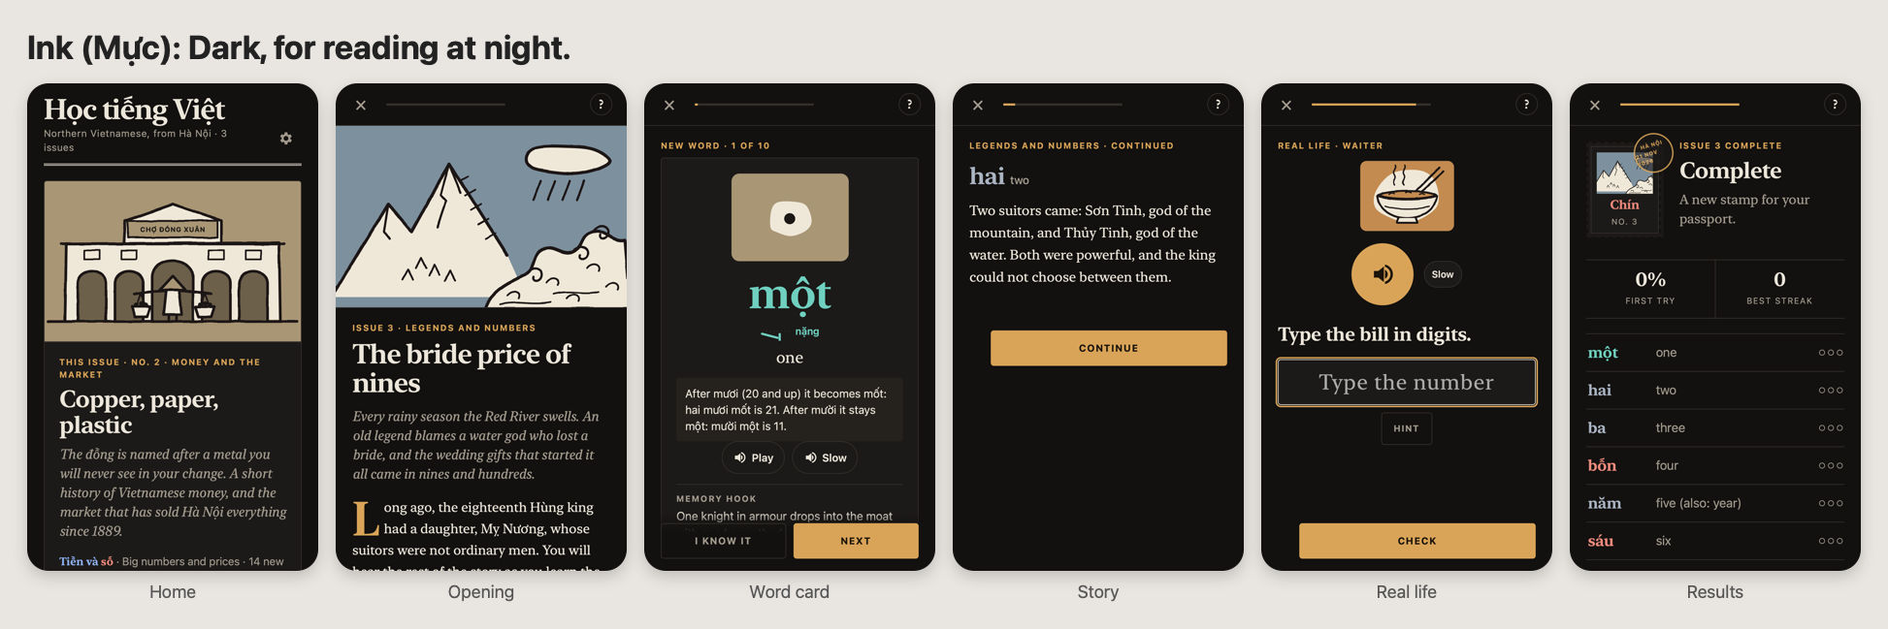
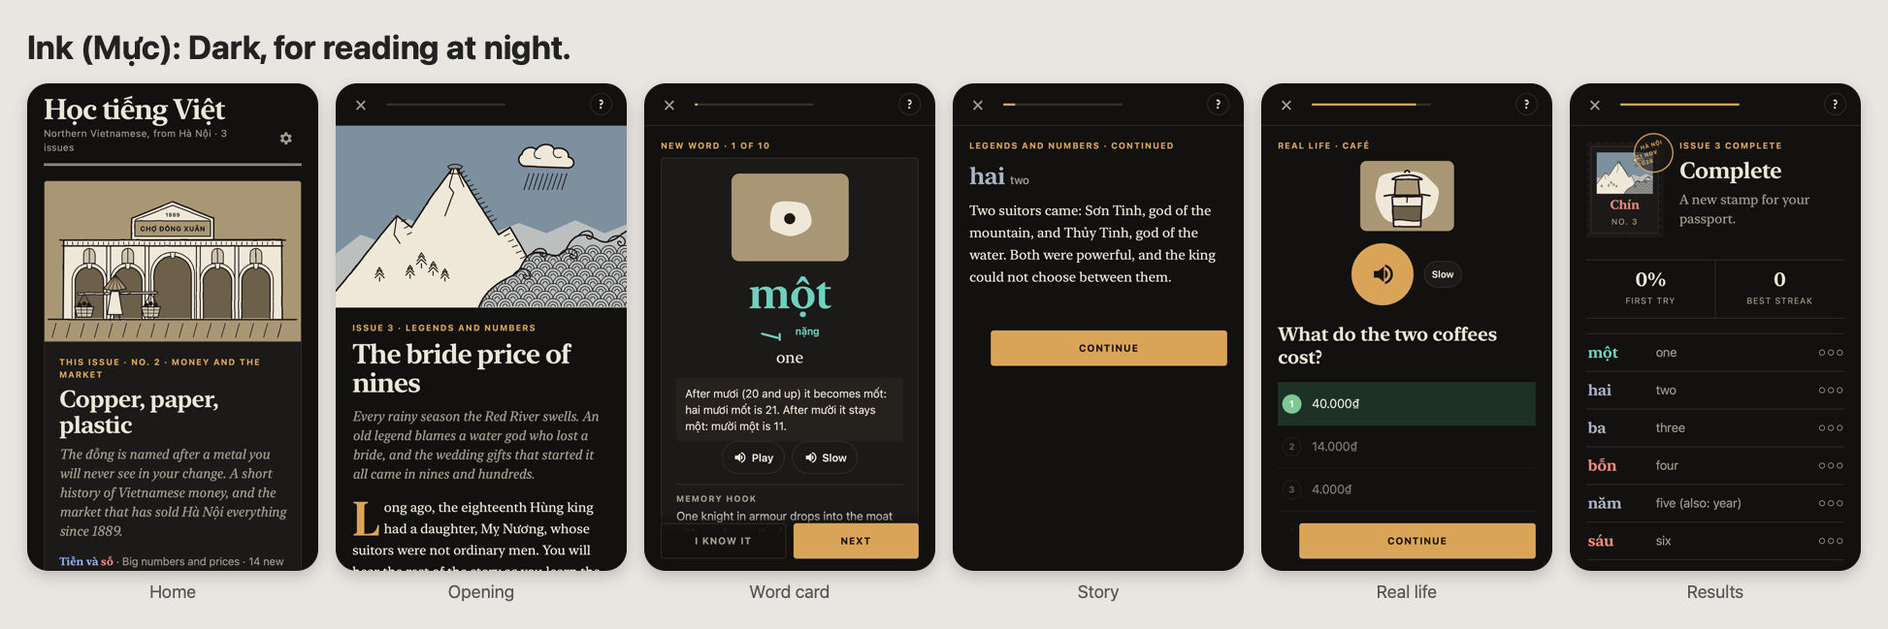
Refine the covers: finer lines, layered mountains with hatching, a detailed phở bowl and Đồng Xuân facade, woodblock-style waves; finer word-picture lines; picture_sheet --covers

diff --git a/web/js/pictures.js b/web/js/pictures.js
@@ -52,7 +52,7 @@ function tremor(id, w, h, freq, scale) {
 function card(ink, { tone = 'warm', paper, seed = 1, crisp = '' } = {}) {
   const id = `vw-ink-${++uid}`;
   const cut = paper === false ? '' : `<path class="k-carrier" d="${paper || blob(60, 46, 44, 33, seed)}"/>`;
-  return `<svg class="pic ink-pic k-${tone}" viewBox="0 0 ${W} ${H}" aria-hidden="true"><defs>${tremor(id, W, H, 0.09, 1.7)}</defs><rect class="k-field" x="0.5" y="0.5" width="119" height="89" rx="8"/>${cut}<g class="k-ink" stroke-width="2.5" filter="url(#${id})">${ink}</g>${crisp}</svg>`;
+  return `<svg class="pic ink-pic k-${tone}" viewBox="0 0 ${W} ${H}" aria-hidden="true"><defs>${tremor(id, W, H, 0.1, 1.25)}</defs><rect class="k-field" x="0.5" y="0.5" width="119" height="89" rx="8"/>${cut}<g class="k-ink" stroke-width="2.1" filter="url(#${id})">${ink}</g>${crisp}</svg>`;
 }
 
 const steam = (xs, y, w = 1.8) => `<g stroke-width="${w}">${xs.map((x) => `<path d="M${x} ${y} c-4 -5 3 -8 0 -13 c-3 -5 3 -8 1 -12"/>`).join('')}</g>`;
@@ -320,59 +320,169 @@ function halfCircle() {
   return card('<circle class="k-paper" cx="60" cy="45" r="30"/><path class="k-tint" d="M60 15 A30 30 0 0 0 60 75 Z"/><path stroke-width="1.8" stroke-dasharray="4 5" d="M60 8 V82"/>', { tone: 'warm', seed: 131 });
 }
 
-// Covers, 400 by 250: one subject each, on a paper cut-out over a full-bleed field.
-const SCENES = {
-  phoStall: {
+// Covers, 400 by 250, one subject each. A scene has up to five layers: back (flat shapes on the field), paper (the
+// cut-outs), under (flat shading on the paper), ink (lines, with the pen tremor) and crisp (text and dots).
+
+const P = (pts) => pts.map(([x, y], i) => `${i ? 'L' : 'M'}${n1(x)} ${n1(y)}`).join(' ');
+
+const curve = ([a, b, c, d]) => `M${a.join(' ')} C${b.join(' ')} ${c.join(' ')} ${d.join(' ')}`;
+
+function cubicAt(p0, p1, p2, p3, t) {
+  const u = 1 - t;
+  return [0, 1].map((k) => u * u * u * p0[k] + 3 * u * u * t * p1[k] + 3 * u * t * t * p2[k] + t * t * t * p3[k]);
+}
+
+// A chopstick or a pole: a long narrow shape, wider at the far end.
+function stick(x1, y1, x2, y2, w1, w2) {
+  const len = Math.hypot(x2 - x1, y2 - y1) || 1;
+  const nx = -(y2 - y1) / len;
+  const ny = (x2 - x1) / len;
+  return `${P([[x1 + (nx * w1) / 2, y1 + (ny * w1) / 2], [x2 + (nx * w2) / 2, y2 + (ny * w2) / 2], [x2 - (nx * w2) / 2, y2 - (ny * w2) / 2], [x1 - (nx * w1) / 2, y1 - (ny * w1) / 2]])} Z`;
+}
+
+// A small pine: a trunk and three tiers.
+function pine(x, y, s = 1) {
+  const t = (w, a, b) => `M${n1(x - w * s)} ${n1(y - a * s)} L${n1(x)} ${n1(y - b * s)} L${n1(x + w * s)} ${n1(y - a * s)}`;
+  return `<path stroke-width="1.4" d="M${x} ${y} v${n1(-6 * s)} ${t(7, 5, 12)} ${t(6, 10, 17)} ${t(4, 15, 21)}"/>`;
+}
+
+// Short parallel strokes along a line, for shading.
+function hatch(x1, y1, x2, y2, n, dx, dy, w = 1.2) {
+  let d = '';
+  for (let i = 0; i < n; i++) {
+    const t = n === 1 ? 0 : i / (n - 1);
+    d += `M${n1(x1 + (x2 - x1) * t)} ${n1(y1 + (y2 - y1) * t)} l${dx} ${dy} `;
+  }
+  return `<path stroke-width="${w}" d="${d.trim()}"/>`;
+}
+
+// Rows of nested arcs: the wave pattern of Vietnamese woodblock prints.
+function scales(x0, y0, x1, y1, r) {
+  let d = '';
+  let row = 0;
+  for (let y = y0; y <= y1; y += r * 0.95, row++) {
+    for (let x = x0 + (row % 2 ? r : 0); x <= x1 + r; x += r * 2) {
+      for (const k of [1, 0.62, 0.28]) d += `M${n1(x - r * k)} ${n1(y)} A${n1(r * k)} ${n1(r * k)} 0 0 1 ${n1(x + r * k)} ${n1(y)} `;
+    }
+  }
+  return d.trim();
+}
+
+function phoScene() {
+  const band = (o) => [[99 + o, 147 + o * 3], [130, 161 + o * 3], [262, 161 + o * 3], [293 - o, 147 + o * 3]];
+  const mid = band(2);
+  let curls = '';
+  for (let i = 0; i < 13; i++) {
+    const [x, y] = cubicAt(...mid, 0.06 + (i * 0.88) / 12);
+    curls += `M${n1(x - 4)} ${n1(y + 3)} c0 -5 7 -6 8 -1 c0 3 -4 3 -4 1 `;
+  }
+  const petals = [[150, 191], [165, 195], [180, 197], [196, 198], [212, 197], [227, 195], [242, 191]].map(([x, y]) => `M${x - 6} ${y} q6 -13 12 0`).join(' ');
+  const steam = [[136, 116, 80], [160, 113, 92], [184, 116, 70]].map(([x, y, h]) => `M${x} ${y} c-10 ${n1(-h * 0.18)} 8 ${n1(-h * 0.32)} 0 ${n1(-h * 0.5)} c-8 ${n1(-h * 0.18)} 9 ${n1(-h * 0.32)} 2 ${n1(-h * 0.5)}`).join(' ');
+  const noodles = [
+    'M219 92 C214 102 222 109 217 118 C214 124 216 129 214 133',
+    'M223 93 C219 103 229 110 224 120 C221 126 224 130 222 134',
+    'M227 95 C224 105 234 112 229 122 C226 128 230 131 228 135',
+    'M231 96 C229 106 239 113 234 123 C232 128 235 131 234 135',
+    'M235 97 C235 107 244 114 239 124 C237 129 240 132 239 135',
+  ].join(' ');
+  const rings = [[176, 127], [190, 135], [264, 131], [142, 125], [230, 138], [256, 124], [118, 136]].map(([x, y]) => `<circle class="k-paper" stroke-width="1.2" cx="${x}" cy="${y}" r="2.6"/>`).join('');
+  const leaf = (x, y, a = 0) => `<g transform="rotate(${a} ${x} ${y})"><path class="k-paper" stroke-width="1.2" d="M${x} ${y} q5 -7 11 -3 q-5 6 -11 3 Z M${x} ${y} q-6 -6 -10 -1 q6 4 10 1 Z"/><path stroke-width="0.9" d="M${x} ${y} l9 -3 M${x} ${y} l-8 -2"/></g>`;
+  return {
     tone: 'warm',
-    paper: blob(205, 132, 160, 100, 11, 11, 0.07),
-    ink: `<g stroke-width="3">${[128, 162, 196].map((x, i) => `<path d="M${x} ${110 - i * 3} c-9 -12 6 -20 0 -32 c-6 -12 7 -20 2 -30"/>`).join('')}</g>
-      <path d="M236 92 L352 14"/><path d="M248 98 L362 26"/>
-      <g stroke-width="3"><path d="M238 94 C230 108 246 116 236 130 C232 136 236 140 234 146"/><path d="M244 97 C238 111 254 119 244 133 C240 139 244 143 242 149"/><path d="M250 99 C246 113 262 121 252 135 C248 141 252 145 250 151"/></g>
-      <path class="k-tint" d="M88 140 C130 122 270 122 312 140 C270 158 130 158 88 140 Z"/>
-      <path class="k-shade" stroke-width="3" d="M262 139 C270 131 290 131 296 139 C288 145 270 146 262 139 Z"/>
-      <path class="k-shade" stroke-width="3" d="M112 140 C120 133 138 132 146 139 C138 145 120 146 112 140 Z"/>
-      <g stroke-width="3"><path d="M160 136 q8 -7 17 -2"/><path d="M188 143 q8 -6 16 -1"/><path d="M212 132 q7 -6 15 -1"/></g>
-      <path class="k-paper" d="M86 141 C90 186 140 214 200 214 C260 214 310 186 314 141 C270 160 130 160 86 141 Z"/>
-      <path stroke-width="3" d="M106 168 C150 182 250 182 294 168"/>
-      <path stroke-width="2.6" d="M134 190 q7 7 14 0 q7 -7 14 0 q7 7 14 0 q7 -7 14 0 q7 7 14 0 q7 -7 14 0 q7 7 14 0 q7 -7 14 0 q7 7 14 0"/>
-      <path class="k-paper" d="M168 213 L162 230 H238 L232 213"/>`,
-  },
-  market: {
+    paper: blob(200, 126, 166, 104, 11, 11, 0.06),
+    under: '<ellipse class="k-mid" cx="198" cy="219" rx="92" ry="6.5"/>',
+    ink: `<path class="k-paper" d="M166 204 L161 217 C177 220 215 220 231 217 L226 204"/>
+      <path class="k-paper" d="M90 133 C94 180 140 205 196 205 C252 205 298 180 302 133 Z"/>
+      <path stroke-width="1.5" d="${curve(band(0))}"/>
+      <path stroke-width="1.5" d="${curve(band(4))}"/>
+      <path stroke-width="1.3" d="${curls.trim()}"/>
+      <path stroke-width="1.3" d="${petals}"/>
+      <ellipse class="k-paper" cx="196" cy="132" rx="106" ry="16"/>
+      <ellipse class="k-tint" stroke-width="1.5" cx="196" cy="132" rx="99" ry="12.5"/>
+      <path class="k-mid" stroke-width="1.4" d="M120 131 C126 124 150 122 160 128 C152 135 130 137 120 131 Z M206 126 C214 119 238 119 246 125 C238 131 216 133 206 126 Z M150 138 C158 133 178 133 186 138 C178 143 158 143 150 138 Z"/>
+      <path stroke-width="1.1" d="M127 130 q10 -4 23 -2 M213 125 q10 -4 23 -2 M157 138 q9 -3 21 -1"/>
+      ${rings}${leaf(198, 128, -8)}${leaf(276, 133, 10)}${leaf(140, 135, 4)}
+      <path stroke-width="1.3" d="M166 137 c10 -4 20 2 30 -2 M200 141 c8 -3 16 1 24 -1"/>
+      <path class="k-pale" stroke-width="1.6" d="M290 131 C294 117 311 113 320 123 C310 125 298 128 290 131 Z"/>
+      <path stroke-width="1.1" d="M295 128 L306 118 M301 127 L313 119"/>
+      <path class="k-paper" stroke-width="1.6" d="${stick(126, 127, 92, 98, 5, 8)}"/>
+      <path class="k-paper" stroke-width="1.6" d="${stick(222, 91, 322, 14, 2.4, 5.2)}"/>
+      <path class="k-paper" stroke-width="1.6" d="${stick(233, 95, 334, 22, 2.4, 5.2)}"/>
+      <path stroke-width="1.4" d="${noodles}"/>
+      <path stroke-width="1.4" d="${steam}"/>`,
+  };
+}
+
+function marketScene() {
+  const bays = [[70, 44], [130, 44], [200, 58], [270, 44], [330, 44]];
+  const arch = ([cx, w], grow = 0) => {
+    const r = w / 2 + grow;
+    const spring = (w > 50 ? 146 : 156) - grow * 0.2;
+    return `M${n1(cx - r)} 214 V${n1(spring)} A${n1(r)} ${n1(r)} 0 0 1 ${n1(cx + r)} ${n1(spring)} V214`;
+  };
+  const keystones = bays.map(([cx, w]) => { const top = (w > 50 ? 146 : 156) - w / 2 - 6; return `M${cx - 4} ${top} h8 l-1.5 9 h-5 Z`; }).join(' ');
+  const pilasters = [100, 160, 240, 300].map((x) => `M${x - 3} 101 V214 M${x + 3} 101 V214`).join(' ');
+  const windows = [70, 130, 270, 330].map((cx) => `M${cx - 9} 128 V114 A9 9 0 0 1 ${cx + 9} 114 V128 Z M${cx} 105 V128`).join(' ');
+  let dentils = '';
+  for (let x = 36; x <= 362; x += 8) dentils += `M${x} 95 v4 `;
+  let tiles = '';
+  for (let x = 18; x <= 390; x += 22) tiles += `M${x} 222 l-6 22 `;
+  const basket = (cx) => `<path class="k-pale" stroke-width="1.6" d="M${cx - 15} 196 H${cx + 15} L${cx + 11} 212 H${cx - 11} Z"/><path stroke-width="1" d="M${cx - 13} 201 H${cx + 13} M${cx - 12} 206 H${cx + 12} M${cx - 5} 196 L${cx - 4} 212 M${cx + 5} 196 L${cx + 4} 212"/>`;
+  return {
     tone: 'earth',
-    paper: 'M34 98 L366 96 L368 216 L32 218 Z M124 98 L126 62 L200 36 L276 62 L276 98 Z',
-    ink: `<path d="M32 218 L34 98 L366 96 L368 216"/><path d="M124 98 L126 62 L200 36 L276 62 L276 98"/><path d="M26 98 H374"/>
-      <path class="k-tint" stroke-width="3" d="M130 62 H270 V88 H130 Z"/>
-      ${[[52, 44], [110, 44], [168, 64], [246, 44], [304, 44]].map(([x, w]) => `<path class="k-shade" d="M${x} 217 V${w > 50 ? 150 : 160} C${x} ${w > 50 ? 116 : 134} ${x + w} ${w > 50 ? 116 : 134} ${x + w} ${w > 50 ? 150 : 160} V217"/>`).join('')}
-      <g stroke-width="2.6">${[56, 114, 250, 308].map((x) => `<path d="M${x + 6} 108 h24 v14 h-24 Z"/>`).join('')}</g>
-      <path d="M6 219 H394"/>
-      <path d="M140 176 Q200 166 260 176"/>
-      <path stroke-width="2.6" d="M150 175 L143 196 M150 175 L158 196 M250 175 L243 196 M250 175 L258 196"/>
-      <path class="k-paper" d="M136 196 H165 L160 212 H141 Z"/><path class="k-paper" d="M236 196 H265 L260 212 H241 Z"/>
-      <path class="k-paper" d="M190 170 L210 170 L214 208 L186 208 Z"/><path d="M194 208 V218 M206 208 V218"/>
-      <path class="k-tint" d="M180 170 L200 148 L220 170 Z"/>`,
-    crisp: `<text class="k-text k-sign" x="200" y="79" text-anchor="middle">CHỢ ĐỒNG XUÂN</text>${[[143, 193], [151, 191], [158, 193], [243, 193], [251, 191], [258, 193]].map(([x, y]) => `<circle class="k-dot" cx="${x}" cy="${y}" r="3.6"/>`).join('')}`,
-  },
-  legend: {
+    paper: 'M30 92 L370 91 L371 215 L29 216 Z M136 92 L136 58 L200 32 L264 58 L264 92 Z',
+    ink: `<path d="M29 216 L30 92 L370 91 L371 215"/><path d="M24 92 H376 M28 101 H372"/>
+      <path stroke-width="1.1" d="${dentils.trim()}"/>
+      <path d="M136 92 L136 58 L200 32 L264 58 L264 92"/><path stroke-width="1.5" d="M142 60 L200 38 L258 60"/>
+      <path class="k-tint" stroke-width="1.6" d="M141 62 H259 V86 H141 Z"/>
+      <path stroke-width="1.5" d="${pilasters}"/>
+      ${bays.map((b) => `<path class="k-shade" stroke-width="1.8" d="${arch(b)}"/><path stroke-width="1.3" d="${arch(b, 5)}"/>`).join('')}
+      <path class="k-paper" stroke-width="1.3" d="${keystones}"/>
+      <path class="k-pale" stroke-width="1.4" d="${windows}"/>
+      <path d="M6 216 H394"/><path stroke-width="1.1" d="${tiles.trim()}"/>
+      <path class="k-paper" stroke-width="1.6" d="${stick(52, 176, 176, 174, 3, 3)}"/>
+      <path stroke-width="1.2" d="M62 176 L50 196 M62 176 L74 196 M166 175 L154 196 M166 175 L178 196"/>
+      ${basket(62)}${basket(166)}
+      <path class="k-paper" stroke-width="1.6" d="M104 172 C102 182 100 196 98 208 H122 C120 196 118 182 116 172 Z"/>
+      <path stroke-width="1.6" d="M104 208 L102 217 M116 208 L118 217"/>
+      <path class="k-paper" stroke-width="1.6" d="M104 174 C98 180 94 176 92 175 M116 174 C124 178 130 176 134 175"/>
+      <path class="k-tint" stroke-width="1.6" d="M92 168 L110 146 L128 168 C116 171 104 171 92 168 Z"/>
+      <path stroke-width="1" d="M110 146 L100 168 M110 146 L106 169 M110 146 L114 169 M110 146 L120 168"/>`,
+    crisp: `<text class="k-text k-sign" x="200" y="78" text-anchor="middle">CHỢ ĐỒNG XUÂN</text><text class="k-text k-year" x="200" y="55" text-anchor="middle">1889</text>${[[55, 193], [62, 191], [69, 193], [159, 193], [166, 191], [173, 193]].map(([x, y]) => `<circle class="k-dot" cx="${x}" cy="${y}" r="3.2"/>`).join('')}`,
+  };
+}
+
+function legendScene(id) {
+  const water = 'M196 252 C206 224 228 214 244 206 C258 198 256 182 270 176 C284 170 296 182 308 178 C322 172 318 158 334 152 C350 146 360 162 374 160 C388 158 394 146 404 144 L406 252 Z';
+  const cloud = 'M262 56 C252 56 248 44 256 39 C258 30 270 27 276 33 C281 24 296 23 301 32 C310 28 322 34 320 43 C330 45 330 57 320 58 Z';
+  const mountain = 'M-8 252 L-8 236 C22 204 54 158 84 124 L104 140 C124 108 144 80 164 54 C184 86 204 120 224 150 L240 140 C258 170 276 204 300 252 Z';
+  const curl = ([x, y], s = 1) => `M${x} ${y} c${n1(6 * s)} ${n1(-10 * s)} ${n1(20 * s)} ${n1(-10 * s)} ${n1(22 * s)} ${n1(-1 * s)} c${n1(1 * s)} ${n1(6 * s)} ${n1(-7 * s)} ${n1(8 * s)} ${n1(-9 * s)} ${n1(3 * s)} c${n1(-1 * s)} ${n1(-3 * s)} ${n1(3 * s)} ${n1(-4 * s)} ${n1(4 * s)} ${n1(-1 * s)}`;
+  return {
     tone: 'cool',
-    paper: `M-6 236 L72 108 L104 146 L156 52 L236 178 L262 236 Z ${blob(316, 46, 58, 20, 5, 8, 0.12)}`,
-    ink: `<path d="M-6 236 L72 108 L104 146 L156 52 L236 178"/>
-      <g stroke-width="3"><path d="M156 52 L144 96 L152 104 L140 140"/><path d="M72 108 L66 146 L74 156"/><path d="M156 52 L172 92"/></g>
-      <g stroke-width="2.6"><path d="M110 196 l7 -14 l7 14 M128 206 l7 -14 l7 14 M92 212 l7 -14 l7 14 M150 214 l7 -14 l7 14"/></g>
-      <path d="${blob(316, 46, 58, 20, 5, 8, 0.12)}"/>
-      <g stroke-width="3">${[282, 302, 322, 342].map((x) => `<path d="M${x} 76 l-10 26"/>`).join('')}</g>
-      <g stroke-width="2.4"><path d="M170 76 L182 70 M178 96 L192 88 M186 116 L200 108 M196 136 L210 128 M206 156 L220 148"/></g>
-      <path class="k-paper" d="M206 252 C216 222 246 214 262 204 C276 194 270 176 286 170 C302 164 312 180 326 174 C342 166 336 150 354 146 C372 142 380 162 398 158 L406 252 Z"/>
-      <g stroke-width="3.2">${[[262, 204], [326, 174], [354, 146]].map(([x, y]) => `<path d="M${x} ${y} c10 -14 26 -6 20 6 c-4 6 -12 4 -10 -2"/>`).join('')}</g>
-      <g stroke-width="2.6">${[[236, 234], [290, 216], [346, 196], [318, 238], [372, 222]].map(([x, y]) => `<path d="M${x} ${y} c8 -10 20 -4 16 4"/>`).join('')}</g>
-      <path stroke-width="2.4" d="M226 246 C250 240 270 248 296 243 M300 232 C322 226 340 234 362 229"/>`,
-  },
-};
+    back: '<path class="k-pale" d="M0 176 L34 150 L62 160 L100 128 L132 146 L170 124 L210 150 L252 134 L290 148 L330 130 L370 148 L400 136 V250 H0 Z"/>',
+    paper: `${mountain} ${cloud}`,
+    defs: `<clipPath id="${id}-sea"><path d="${water}"/></clipPath>`,
+    ink: `<path d="${mountain.replace('M-8 252 L-8 236', 'M-8 236').replace(' Z', '')}"/>
+      <path stroke-width="1.5" d="M164 54 L156 84 L162 92 L150 124 M84 124 L80 150 L88 162 M164 54 L176 84"/>
+      ${hatch(170, 66, 214, 132, 12, 7, -3)}${hatch(232, 152, 276, 214, 9, 7, -3)}${hatch(90, 132, 98, 150, 3, 6, -3)}
+      ${pine(118, 196, 1)}${pine(134, 206, 0.9)}${pine(102, 210, 0.85)}${pine(150, 214, 0.8)}${pine(60, 214, 0.9)}
+      <path class="k-tint" stroke-width="1.4" d="M154 56 C160 52 168 52 174 56 L172 59 H156 Z"/><path stroke-width="1.3" d="M158 59 V66 M170 59 V66 M154 66 H174"/>
+      <path d="${cloud}"/><path stroke-width="1.3" d="M276 33 c-6 6 -2 14 6 12 M301 32 c-4 8 2 14 9 11"/>
+      ${hatch(266, 66, 318, 66, 9, -7, 22, 1.2)}
+      <path class="k-pale" d="${water}"/>
+      <path stroke-width="1.1" clip-path="url(#${id}-sea)" d="${scales(200, 176, 404, 252, 11)}"/>
+      <path stroke-width="1.8" d="${[[244, 206], [270, 176], [308, 178], [334, 152], [374, 160]].map((p, i) => curl(p, i % 2 ? 0.9 : 1.1)).join(' ')}"/>`,
+  };
+}
+
+const SCENES = { phoStall: phoScene, market: marketScene, legend: legendScene };
 
 function scene(name) {
-  const s = SCENES[name];
-  if (!s) return '';
+  const make = SCENES[name];
+  if (!make) return '';
   const id = `vw-ink-${++uid}`;
-  return `<svg class="pic scene ink-pic k-${s.tone}" viewBox="0 0 400 250" preserveAspectRatio="xMidYMid slice" aria-hidden="true"><defs>${tremor(id, 400, 250, 0.028, 3.4)}</defs><rect class="k-field" x="0" y="0" width="400" height="250"/><path class="k-carrier" d="${s.paper}"/><g class="k-ink" stroke-width="4.2" filter="url(#${id})">${s.ink}</g>${s.crisp || ''}</svg>`;
+  const s = make(id);
+  return `<svg class="pic scene ink-pic k-${s.tone}" viewBox="0 0 400 250" preserveAspectRatio="xMidYMid slice" aria-hidden="true"><defs>${tremor(id, 400, 250, 0.035, 1.6)}${s.defs || ''}</defs><rect class="k-field" x="0" y="0" width="400" height="250"/>${s.back || ''}<path class="k-carrier" d="${s.paper}"/>${s.under || ''}<g class="k-ink" stroke-width="2.2" filter="url(#${id})">${s.ink}</g>${s.crisp || ''}</svg>`;
 }
 
 // Returns an SVG string for a lesson picture spec such as { "kind": "icon", "name": "bowl" } or { "kind": "dots", "n": 100 }.

diff --git a/web/style.css b/web/style.css
@@ -545,17 +545,24 @@ textarea { width: 100%; padding: 12px; border-radius: var(--radius); border: 1px
 .pic.k-cool { --pic-tint: var(--pic-field-cool); }
 .pic.k-earth { --pic-tint: var(--pic-field-earth); }
 .pic.k-leaf { --pic-tint: var(--pic-field-leaf); }
-.pic { --pic-shade: color-mix(in srgb, var(--pic-tint, var(--pic-field-earth)) 58%, var(--pic-line)); }
+.pic {
+  --pic-shade: color-mix(in srgb, var(--pic-tint, var(--pic-field-earth)) 58%, var(--pic-line));
+  --pic-mid: color-mix(in srgb, var(--pic-tint, var(--pic-field-earth)) 80%, var(--pic-line));
+  --pic-pale: color-mix(in srgb, var(--pic-tint, var(--pic-field-earth)) 45%, var(--pic-carrier));
+}
 .pic .k-field { fill: var(--pic-tint); }
 .pic .k-carrier { fill: var(--pic-carrier); }
 .pic .k-ink { fill: none; stroke: var(--pic-line); stroke-linecap: round; stroke-linejoin: round; }
 .pic .k-ink .k-paper { fill: var(--pic-carrier); }
 .pic .k-ink .k-tint { fill: var(--pic-tint); }
 .pic .k-ink .k-shade { fill: var(--pic-shade); }
+.pic .k-mid, .pic .k-ink .k-mid { fill: var(--pic-mid); }
+.pic .k-pale, .pic .k-ink .k-pale { fill: var(--pic-pale); }
 .pic .k-dot, .pic .k-ink .k-dot { fill: var(--pic-line); stroke: none; }
 .pic .k-text { fill: var(--pic-line); font-family: var(--serif); font-weight: 700; }
 .pic .k-sign { font-family: var(--sans); font-size: 10.5px; letter-spacing: 1px; }
 .pic .k-note { font-size: 9.5px; }
+.pic .k-year { font-family: var(--sans); font-size: 8px; letter-spacing: 1px; font-weight: 600; }
 .pic-wrap.tiny .pic .k-ink, .stamp-art .pic .k-ink { filter: none; }
 
 .pic-wrap { margin: 0 auto; }

diff --git a/scripts/picture_sheet.py b/scripts/picture_sheet.py
@@ -3,6 +3,7 @@
 
   /Library/Frameworks/Python.framework/Versions/3.13/bin/python3 scripts/picture_sheet.py
   ... scripts/picture_sheet.py --style paper --style lacquer --out .checks/pictures
+  ... scripts/picture_sheet.py --covers      only the covers, at 800 by 500 (how a Mac shows an issue's opening)
 
 Writes <out>-<style>.png (default .checks/pictures-<style>.png). Pictures are shown at the sizes the
 site uses: covers at 400 by 250, word pictures at the word-card size and as tiny list thumbnails.
@@ -27,6 +28,8 @@ PAGE = """<!doctype html><html><head><meta charset="utf-8"><link rel="stylesheet
   .grid { display: flex; flex-wrap: wrap; gap: 14px; }
   .cell { background: var(--card); border: 1px solid var(--rule); border-radius: 6px; padding: 10px; text-align: center; font-family: var(--sans); font-size: 11px; color: var(--muted); }
   .scene-cell .pic-box { width: 400px; height: 250px; }
+  body.covers .scene-cell .pic-box { width: 800px; height: 500px; }
+  body.covers .only-covers-hide { display: none; }
   .icon-cell .pic-box { width: 160px; height: 120px; }
   .tiny-row { display: flex; gap: 8px; flex-wrap: wrap; align-items: center; }
   .tiny-row .pic-box { width: 40px; height: 30px; }
@@ -47,10 +50,10 @@ PAGE = """<!doctype html><html><head><meta charset="utf-8"><link rel="stylesheet
   const scenes = SCENE_NAMES.map((name) => ({ kind: 'scene', name }));
   document.getElementById('out').innerHTML = `
     <h2>Covers</h2><div class="grid">${scenes.map((s) => cell(s, 'scene-cell')).join('')}</div>
-    <h2>Word pictures</h2><div class="grid">${icons.map((s) => cell(s, 'icon-cell')).join('')}</div>
+    <div class="only-covers-hide"><h2>Word pictures</h2><div class="grid">${icons.map((s) => cell(s, 'icon-cell')).join('')}</div>
     <h2>Diagrams</h2><div class="grid">${diagrams.map((s) => cell(s, 'icon-cell')).join('')}</div>
     <h2>Stamps and thumbnails</h2><div class="tiny-row stamp-row">${scenes.map((s) => `<div class="pic-box stamp-art">${picture(s)}</div>`).join('')}</div>
-    <div class="tiny-row" style="margin-top:10px">${[...icons, ...diagrams].map((s) => `<div class="pic-box">${picture(s)}</div>`).join('')}</div>`;
+    <div class="tiny-row" style="margin-top:10px">${[...icons, ...diagrams].map((s) => `<div class="pic-box">${picture(s)}</div>`).join('')}</div></div>`;
   document.body.dataset.ready = '1';
 </script></body></html>"""
 
@@ -59,6 +62,7 @@ def main():
     parser = argparse.ArgumentParser(description=__doc__, formatter_class=argparse.RawDescriptionHelpFormatter)
     parser.add_argument("--style", action="append", choices=STYLES, help="styles to draw (default: all)")
     parser.add_argument("--out", default=str(ROOT / ".checks" / "pictures"), help="output path prefix")
+    parser.add_argument("--covers", action="store_true", help="only the covers, drawn large")
     args = parser.parse_args()
     out = Path(args.out)
     out.parent.mkdir(parents=True, exist_ok=True)
@@ -66,7 +70,7 @@ def main():
         browser = p.webkit.launch()
         for style in args.style or STYLES:
             dark = style == "paper-dark"
-            ctx = browser.new_context(viewport={"width": 1400, "height": 900}, device_scale_factor=1, color_scheme="dark" if dark else "light")
+            ctx = browser.new_context(viewport={"width": 1400 if not args.covers else 900, "height": 900}, device_scale_factor=1 if not args.covers else 2, color_scheme="dark" if dark else "light")
             ctx.route(f"{BASE}**", lambda route: route.fulfill(status=200, content_type="text/html", body=PAGE) if route.request.url.endswith("/_sheet.html") else serve(route))
             page = ctx.new_page()
             errors = []
@@ -75,6 +79,8 @@ def main():
             if style not in ("paper-dark",):
                 page.evaluate(f"document.documentElement.dataset.style = '{style}'")
             page.wait_for_selector("body[data-ready='1']")
+            if args.covers:
+                page.evaluate("document.body.classList.add('covers')")
             page.wait_for_timeout(300)
             path = f"{out}-{style}.png"
             page.screenshot(path=path, full_page=True)

diff --git a/scripts/check_lessons.py b/scripts/check_lessons.py
@@ -54,7 +54,9 @@ def picture_names():
     src = (WEB / "js" / "pictures.js").read_text(encoding="utf-8")
     block = lambda name: src.split(f"const {name} = {{")[1].split("\n};")[0]
     keys = lambda text: set(re.findall(r"^  ([a-zA-Z]+): [`{]", text, re.M))
-    return set(re.findall(r"case '([a-z]+)':", src)), keys(block("ICONS")), keys(block("SCENES"))
+    scenes = re.search(r"const SCENES = \{([^}]*)\}", src)
+    scene_keys = set(re.findall(r"(\w+)\s*:", scenes.group(1))) if scenes else set()
+    return set(re.findall(r"case '([a-z]+)':", src)), keys(block("ICONS")), scene_keys
 
 
 PICTURE_KINDS, ICON_NAMES, SCENE_NAMES = picture_names()

diff --git a/docs/PEDAGOGY.md b/docs/PEDAGOGY.md
@@ -38,7 +38,7 @@ Every lesson is planned from data: `learner/SUMMARY.md` (built from the results 
 - **Real life**: five to eight `situations` with everyday Hà Nội lines a learner will actually hear, using this issue's and earlier words. Mix picking from options and typing digits, and make about a third reactions or orders, not prices (a tourist price: Đắt quá!). Distractors should sound like the answer (19 against 90, 30 against 300, 15 against 50) or repeat the learner's own mix-ups from the warm-up and confusion lists. Never put the answer in `placeholder`.
 - **Every new and review word** appears at least once in a situation, a combo or a beat, so it is heard in use, not only drilled.
 - **Challenge**: one concrete, polite thing to do or say, with the Vietnamese spelled out and glossed.
-- **Cover and stamp**: an illustration of the story or the theme, from `web/js/pictures.js`. A new story usually deserves a new scene. Every picture uses the same three layers: a flat colour field (`warm` for food and people, `cool` for water and sky, `earth` for bread, coffee, money and counting, `leaf` for plants and tea), an irregular paper cut-out behind the subject (`blob()`), and bold ink lines with rounded ends that get a slight dip-pen tremor (the drawing goes in `ink`; dots, numbers and labels go in `crisp` so they stay sharp). One subject per picture, flat (no gradients or shadows), simple naive shapes, a margin of field around the subject; ink may cross the edge of the paper. Covers are 400 by 250 and are cropped to fill wider frames, so keep the subject in the middle 300. Check new art in every style with `scripts/picture_sheet.py` (it draws every picture in every style, dark ones included) before running `check_site.py`.
+- **Cover and stamp**: an illustration of the story or the theme, from `web/js/pictures.js`. A new story usually deserves a new scene. Every picture uses the same three layers: a flat colour field (`warm` for food and people, `cool` for water and sky, `earth` for bread, coffee, money and counting, `leaf` for plants and tea), an irregular paper cut-out behind the subject (`blob()`), and bold ink lines with rounded ends that get a slight dip-pen tremor (the drawing goes in `ink`; dots, numbers and labels go in `crisp` so they stay sharp). One subject per picture, flat (no gradients or shadows), simple naive shapes, a margin of field around the subject; ink may cross the edge of the paper. Covers are 400 by 250, are cropped to fill wider frames (keep the subject in the middle 300), and are shown up to 800 px wide on a Mac, so they need fine lines and real detail: main lines about 2.2 units, details 1.2 to 1.6, shading by pen hatching (`hatch()`), distance by a pale shape behind (`back`), flat shadows on the paper (`under`), and patterns where a big area would look empty (`scales()` for water, as in woodblock prints). Look at them large with `scripts/picture_sheet.py --covers`; the learner judged the first, crude version on a Mac. Check new art in every style with `scripts/picture_sheet.py` (it draws every picture in every style, dark ones included) before running `check_site.py`.
 - **Photos**: Wikimedia Commons is blocked from this sandbox at the moment. If it becomes reachable, use only freely licensed images, resize them with `sips -Z 1200`, store them in `web/images/` and record title, author, licence and source URL in `web/images/credits.json`, shown as a caption.
 - Every issue gets three reviews before it ships: Vietnamese accuracy, learning design, and a history and culture fact-check.
 
